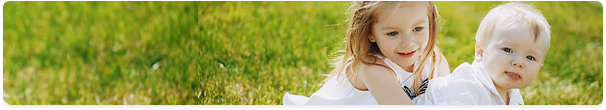
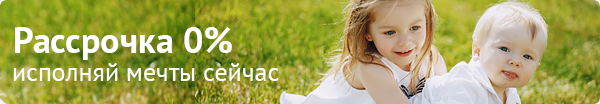
1

diff --git a/food/index.html b/food/index.html
@@ -45,7 +45,7 @@
 		</div>
 	</div>
 
-
+<div class="mb-3">
 	<div class="block-title mx-3 mb-2">Коттеджные поселки</div>
 	<div class="swiper-poselok pb-1 ">
 		<div class="swiper-wrapper">
@@ -73,8 +73,9 @@
 		<!-- Add Pagination -->
 
 	</div>
-
-
+</div>
+	<div class="block-title mx-3 mb-3">
+	<img class="img-fluid" src="img/baby.png" alt=""></div>
 
 
 
